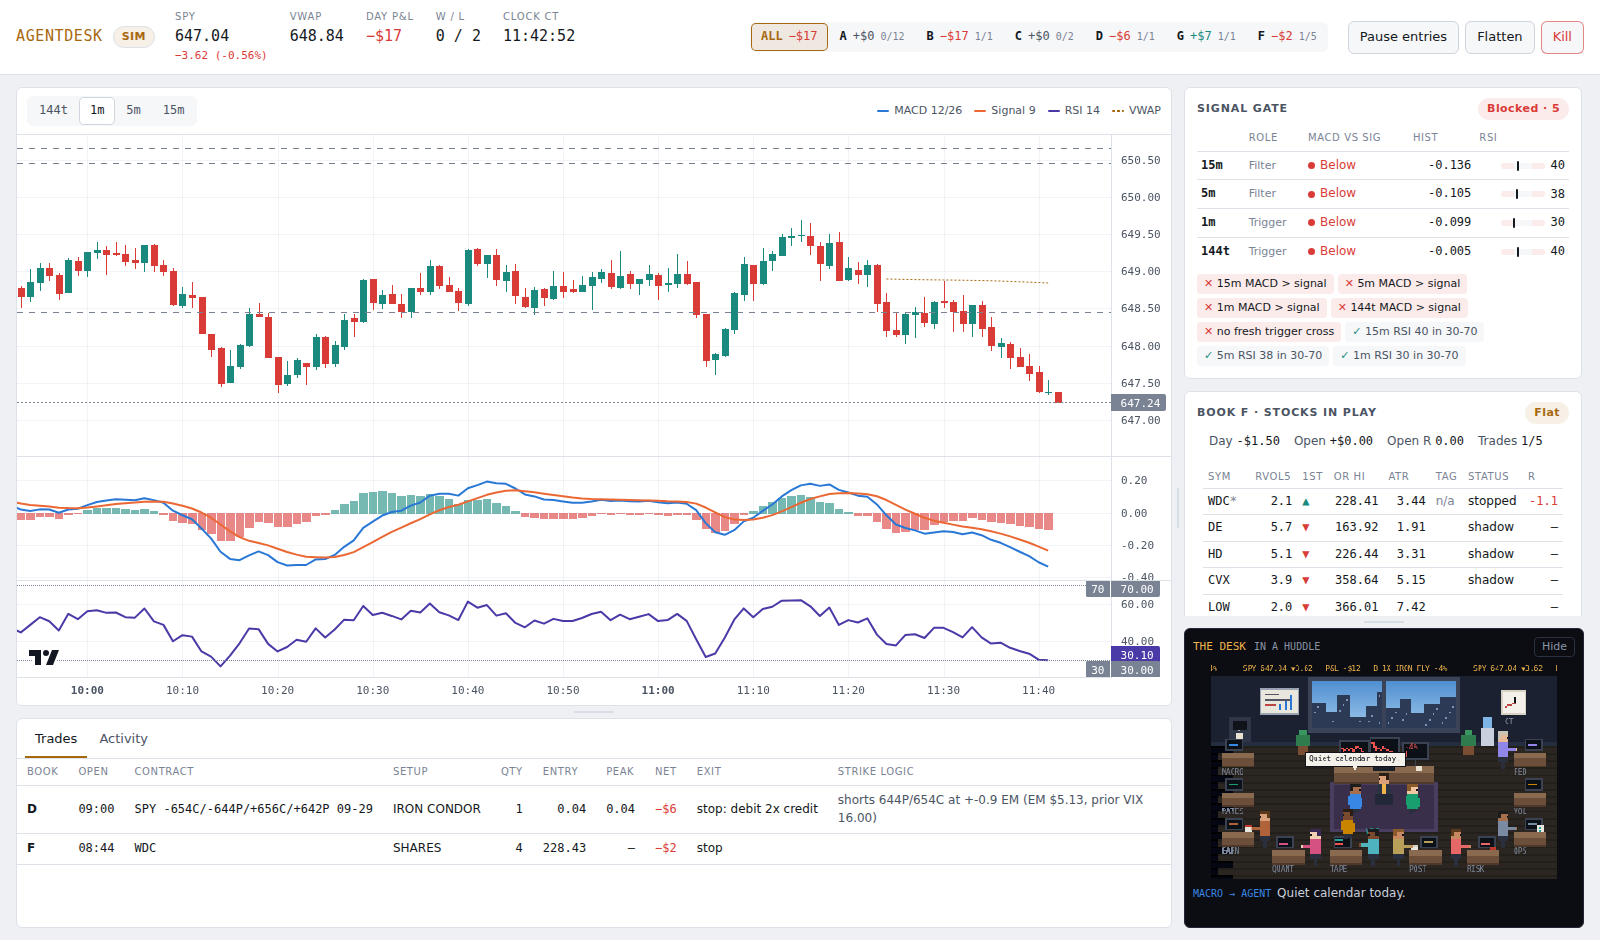
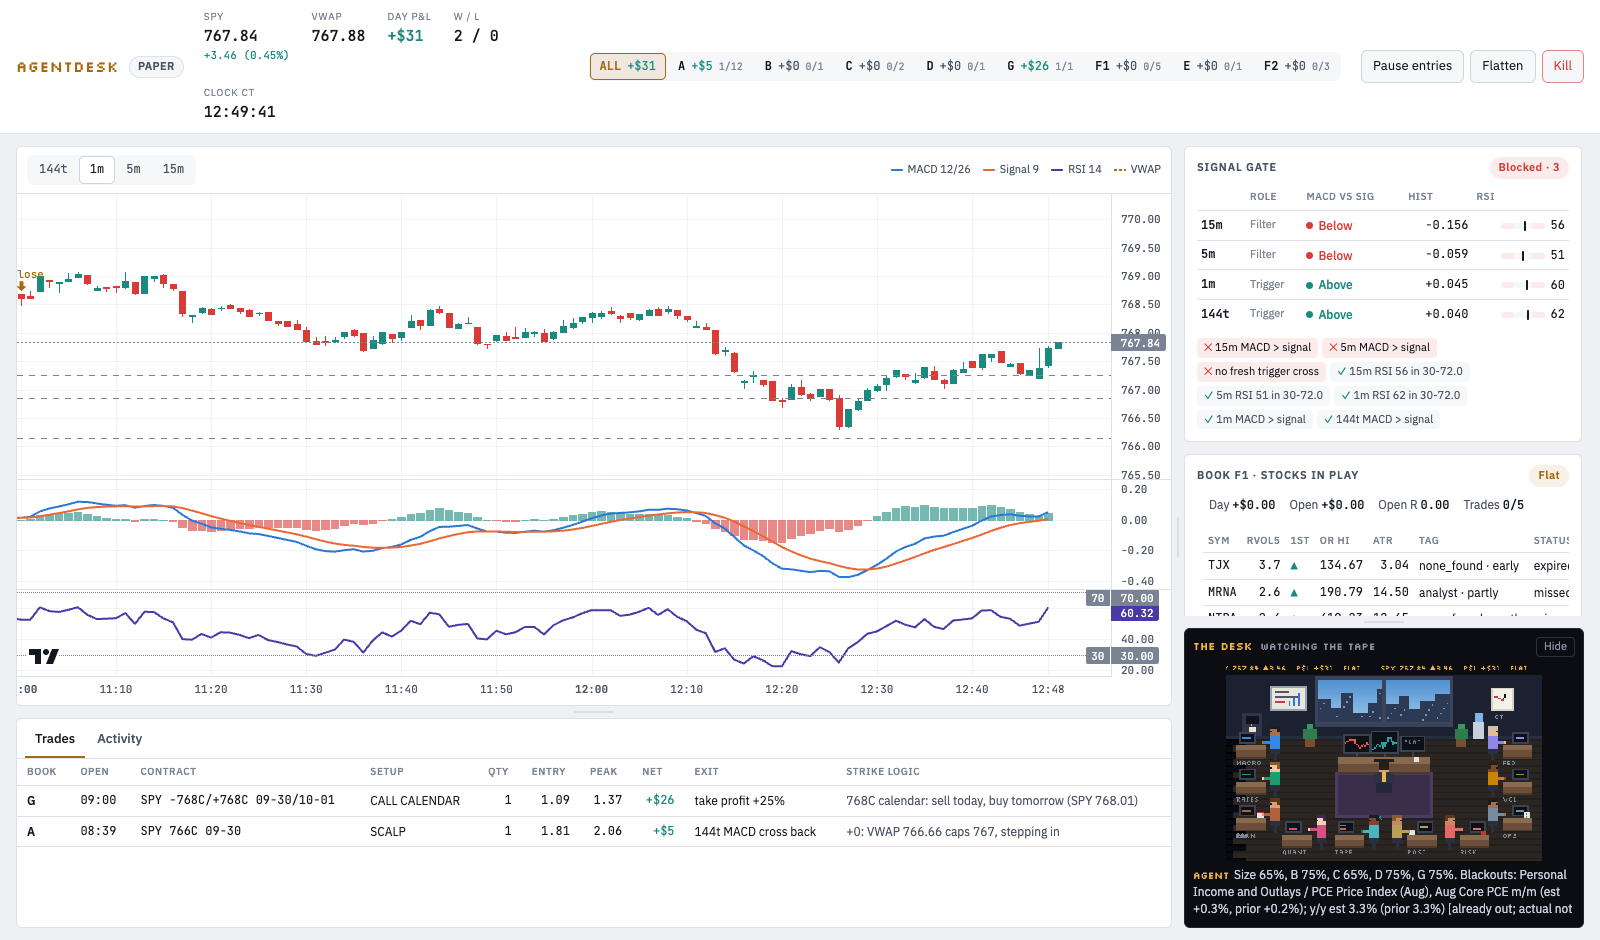
docs: README screenshot from today's live paper session

diff --git a/README.md b/README.md
@@ -6,7 +6,7 @@ An options trading desk for SPY that runs on Robinhood's Agentic Trading MCP. En
 
 **Status:** every strategy book runs on paper. Nothing trades live. A book reaches real money only through the promotion ladder below, one book at a time, at one contract.
 
-![AgentDesk dashboard during a simulated session: SPY chart with MACD and RSI, per-book P&L chips, signal gate, book F1's scan, and the pixel-art office where the research crew meets](docs/img/dashboard.png)
+![AgentDesk dashboard during a live paper session: SPY chart with MACD and RSI, per-book P&L chips, signal gate, book F1's scan, today's trades, and the pixel-art office where the research crew meets](docs/img/dashboard.png)
 
 ## Background
 
